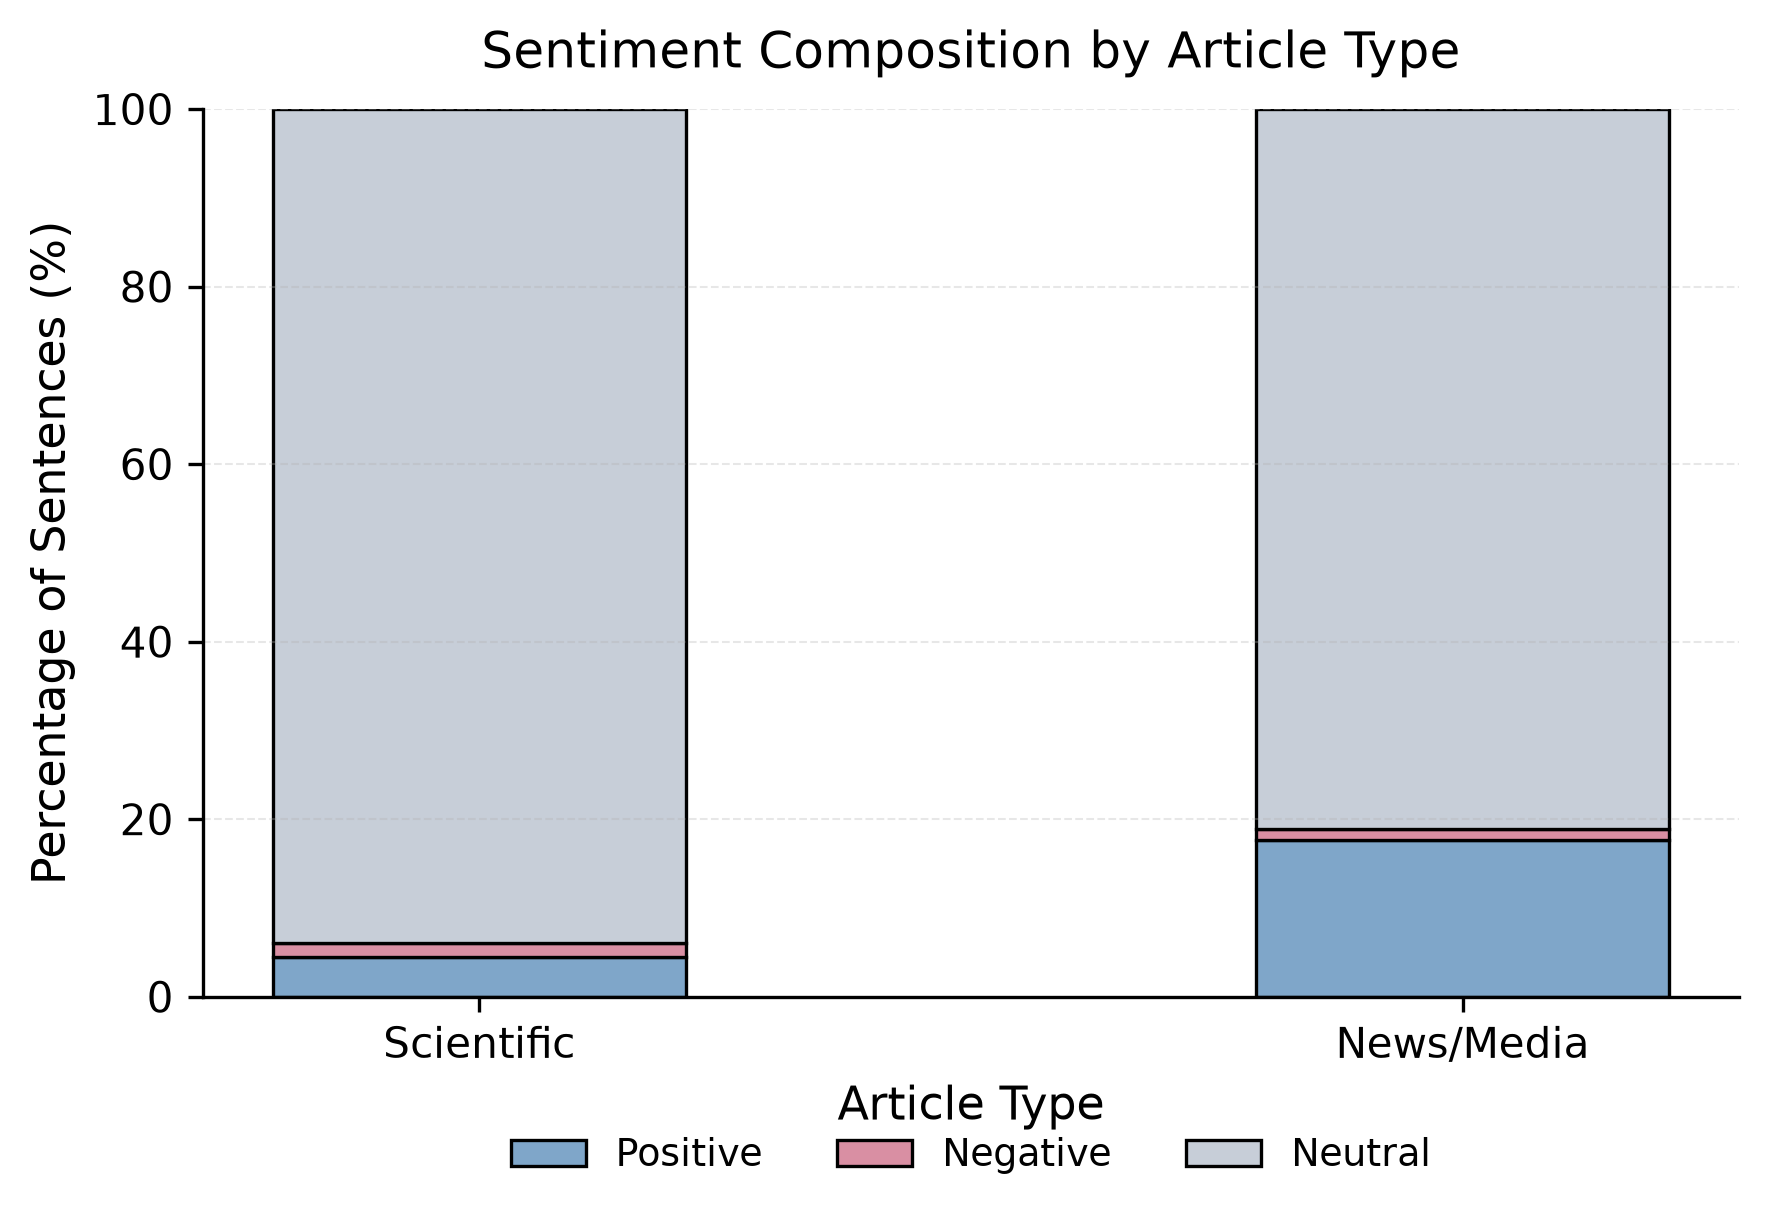
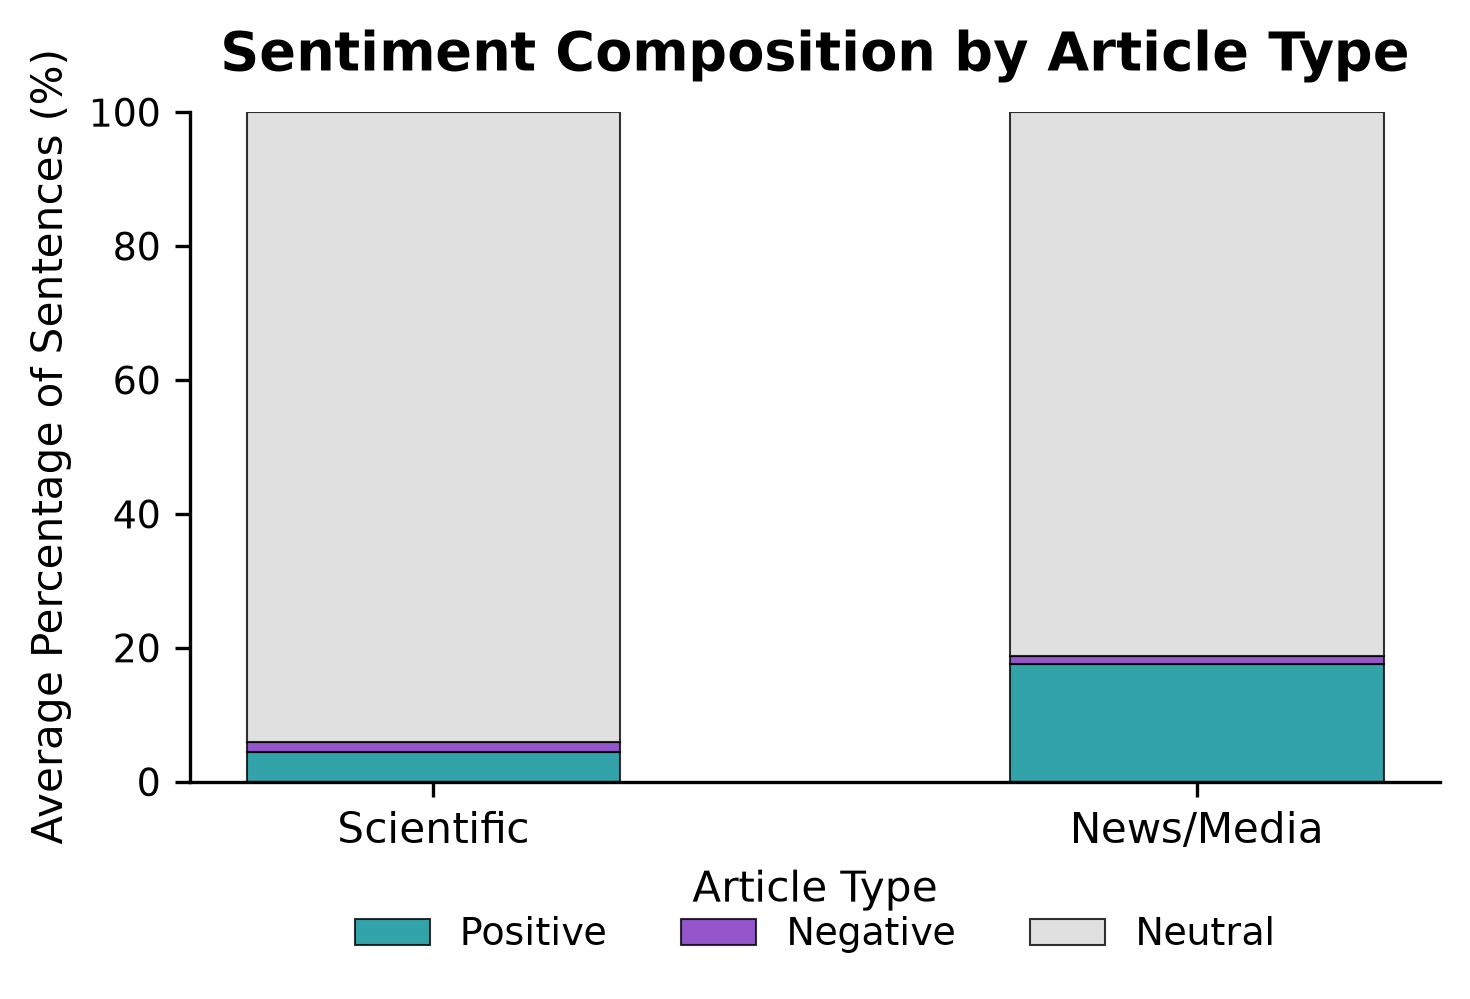
editing plots

diff --git a/scripts/03_eda_sciBert.py b/scripts/03_eda_sciBert.py
@@ -119,16 +119,16 @@ for column, label in sentiment_columns.items():
         * 100
     )
 
-    x = np.arange(len(article_order))
+    x = np.array([0, 0.45])
 
-    plt.figure(figsize=(5.5, 4.5))
+    plt.figure(figsize=(3.2, 2.8))
 
     plt.bar(
         x,
         summary["mean"],
         yerr=summary["std"],
         capsize=4,
-        width=0.4,
+        width=0.18,
         color=colors,
         edgecolor="black",
         linewidth=0.7,
@@ -144,8 +144,11 @@ for column, label in sentiment_columns.items():
     )
 
     plt.xlabel("Article Type")
-    plt.ylabel("Average Percentage of Sentences (%)")
-    plt.title(f"{label} Sentiment by Article Type")
+    plt.ylabel("Avg. Percentage of Sentences (%)")
+    plt.title(
+    f"{label} Sentiment by Article Type",
+    fontsize=10
+)
 
     plt.ylim(bottom=0)
 
@@ -210,86 +213,99 @@ article_order = ["Scientific", "News/Media"]
 sentiment_summary = sentiment_summary.reindex(
     article_order
 )
-
+print("\nAVERAGE SENTIMENT COMPOSITION (%)")
+print(sentiment_summary)
 positive = sentiment_summary["positive_pct"]
 negative = sentiment_summary["negative_pct"]
 neutral = sentiment_summary["neutral_pct"]
 
 
 # Create a 100% stacked bar chart showing the average sentiment
+# Create a 100% stacked bar chart showing the average sentiment
+# Create a 100% stacked bar chart showing the average sentiment
 # composition of each article type.
-plt.figure(figsize=(6, 4.2))
+plt.figure(figsize=(5, 3.5))
 
-bar_width = 0.42
+bar_width = 0.22
+x = [0, 0.45]
+
+positive_color = "#008C95"   # Teal
+negative_color = "#7B2CBF"   # Purple
+neutral_color = "#D9D9D9"    # Light gray
 
 plt.bar(
-    article_order,
+    x,
     positive,
     width=bar_width,
     label="Positive",
-    color="#7FA6C9",
+    color=positive_color,
+    alpha=0.8,
     edgecolor="black",
-    linewidth=0.8
+    linewidth=0.5
 )
 
 plt.bar(
-    article_order,
+    x,
     negative,
     width=bar_width,
     bottom=positive,
     label="Negative",
-    color="#D98FA3",
+    color=negative_color,
+    alpha=0.8,
     edgecolor="black",
-    linewidth=0.8
+    linewidth=0.5
 )
 
 plt.bar(
-    article_order,
+    x,
     neutral,
     width=bar_width,
     bottom=positive + negative,
     label="Neutral",
-    color="#C7CED8",
+    color=neutral_color,
+    alpha=0.8,
     edgecolor="black",
-    linewidth=0.8
+    linewidth=0.5
 )
 
 plt.xlabel(
     "Article Type",
-    fontsize=11
+    fontsize=10
 )
 
 plt.ylabel(
-    "Percentage of Sentences (%)",
-    fontsize=11
+    "Average Percentage of Sentences (%)",
+    fontsize=10
 )
 
 plt.title(
     "Sentiment Composition by Article Type",
-    fontsize=12,
+    fontsize=13,
+    fontweight="bold",
     pad=10
+)
+
+plt.xticks(
+    x,
+    article_order,
+    fontsize=10
+)
+
+plt.yticks(
+    fontsize=9
 )
 
 plt.ylim(0, 100)
 
-plt.tick_params(
-    axis="both",
-    labelsize=10
-)
+# Remove background gridlines.
+plt.grid(False)
 
 plt.legend(
     frameon=False,
     fontsize=9,
     loc="upper center",
-    bbox_to_anchor=(0.5, -0.12),
+    bbox_to_anchor=(0.5, -0.15),
     ncol=3
-)
-
-plt.grid(
-    axis="y",
-    linestyle="--",
-    linewidth=0.5,
-    alpha=0.3
 )
 
 plt.gca().spines["top"].set_visible(False)
@@ -304,8 +320,6 @@ plt.savefig(
 )
 
 plt.close()
-
-
 print("\nSaved plots:")
 print("articles_by_type.png")
 print("positive_pct_by_type.png")

diff --git a/scripts/05_eda_vader.py b/scripts/05_eda_vader.py
@@ -37,7 +37,7 @@ import matplotlib.pyplot as plt
 from pathlib import Path
 
 
-SENTIMENT_FILE = Path("output/vader_sentiment_data.csv")
+SENTIMENT_FILE = Path("data/vader_sentiment_data.csv")
 OUTPUT_DIR = Path("output")
 
 OUTPUT_DIR.mkdir(exist_ok=True)
@@ -146,6 +146,7 @@ for column, label in [
         alpha=0.3
     )
 
+
     plt.gca().spines["top"].set_visible(False)
     plt.gca().spines["right"].set_visible(False)
 
@@ -229,6 +230,11 @@ plt.close()
 # Plot the mean compound score for each individual article.
 plt.figure(figsize=(6, 4.2))
 
+colors = {
+    "Scientific": "#A8C7E8",
+    "News/Media": "#F2B6C6"
+}
+
 for group in article_order:
 
     subset = df[
@@ -241,10 +247,12 @@ for group in article_order:
     plt.scatter(
         x,
         y,
+        color=colors[group],
         label=group,
         s=28,
         edgecolor="black",
-        linewidth=0.5
+        linewidth=0.5,
+        alpha=0.8
     )
 
 plt.axhline(
@@ -322,7 +330,7 @@ plt.bar(
         "elinewidth": 1.2,
         "capthick": 1.2
     },
-    color=["#7FA6C9", "#D98FA3"],
+    color=["#A8C7E8", "#F2B6C6"],
     edgecolor="black",
     linewidth=0.8
 )
@@ -353,6 +361,7 @@ plt.tick_params(
 )
 
 plt.grid(
+    False,
     axis="y",
     linestyle="--",
     linewidth=0.5,

diff --git a/scripts/02_sentiment.py b/scripts/02_sentiment.py
@@ -34,14 +34,17 @@ from transformers import pipeline
 
 
 # Scientific sentiment model used for the analysis and setting more input/output variables.
+#Found documentation for downloading article online 
 MODEL_NAME = "puzzz21/sci-sentiment-classify"
 ARTICLE_DIR = "data/articles"
 ARTICLE_OUTPUT_FILE = "data/sentiment_results.csv"
 SENTENCE_OUTPUT_FILE = "data/sentence_sentiment_results.csv"
 
-# Adding more text to terminal output for clarity
+#Adding more text to terminal output for clarity to see where the script and model failed 
+
 print("Loading scientific sentiment model...")
 
+#
 classifier = pipeline(
     "text-classification",
     model=MODEL_NAME,

diff --git a/scripts/01_scraper.py b/scripts/01_scraper.py
@@ -11,7 +11,7 @@ Input:
 Outputs:
     data/articles.csv
     data/articles/*.txt
-    scrape_errors.csv
+    scrape_errors.csv (only applicable if there are errors in scraping -- will not be in the github atm)
 
 Process:
     1. Read article URLs from data/urls.txt.
